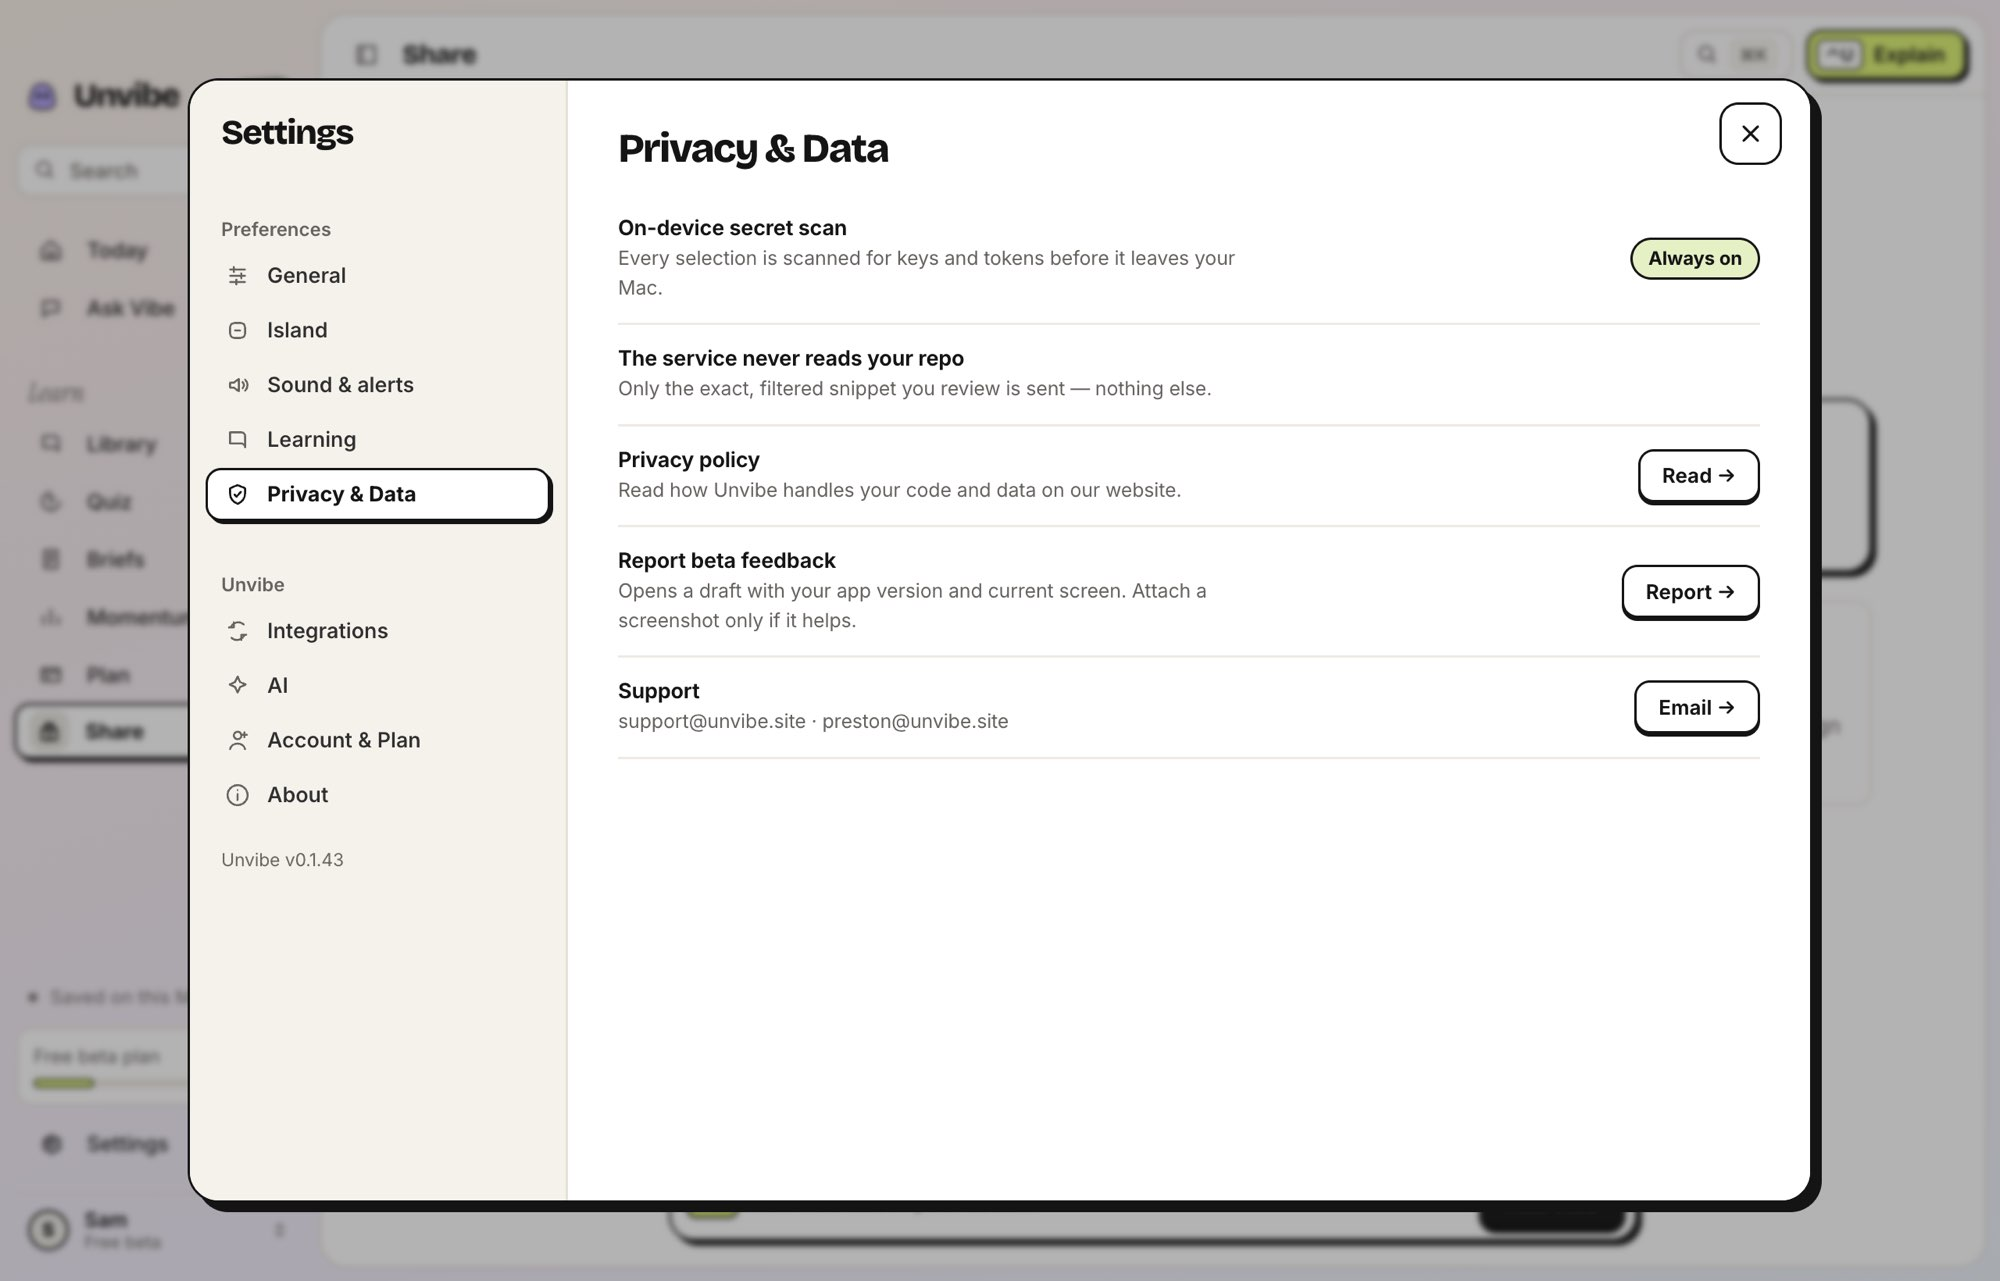
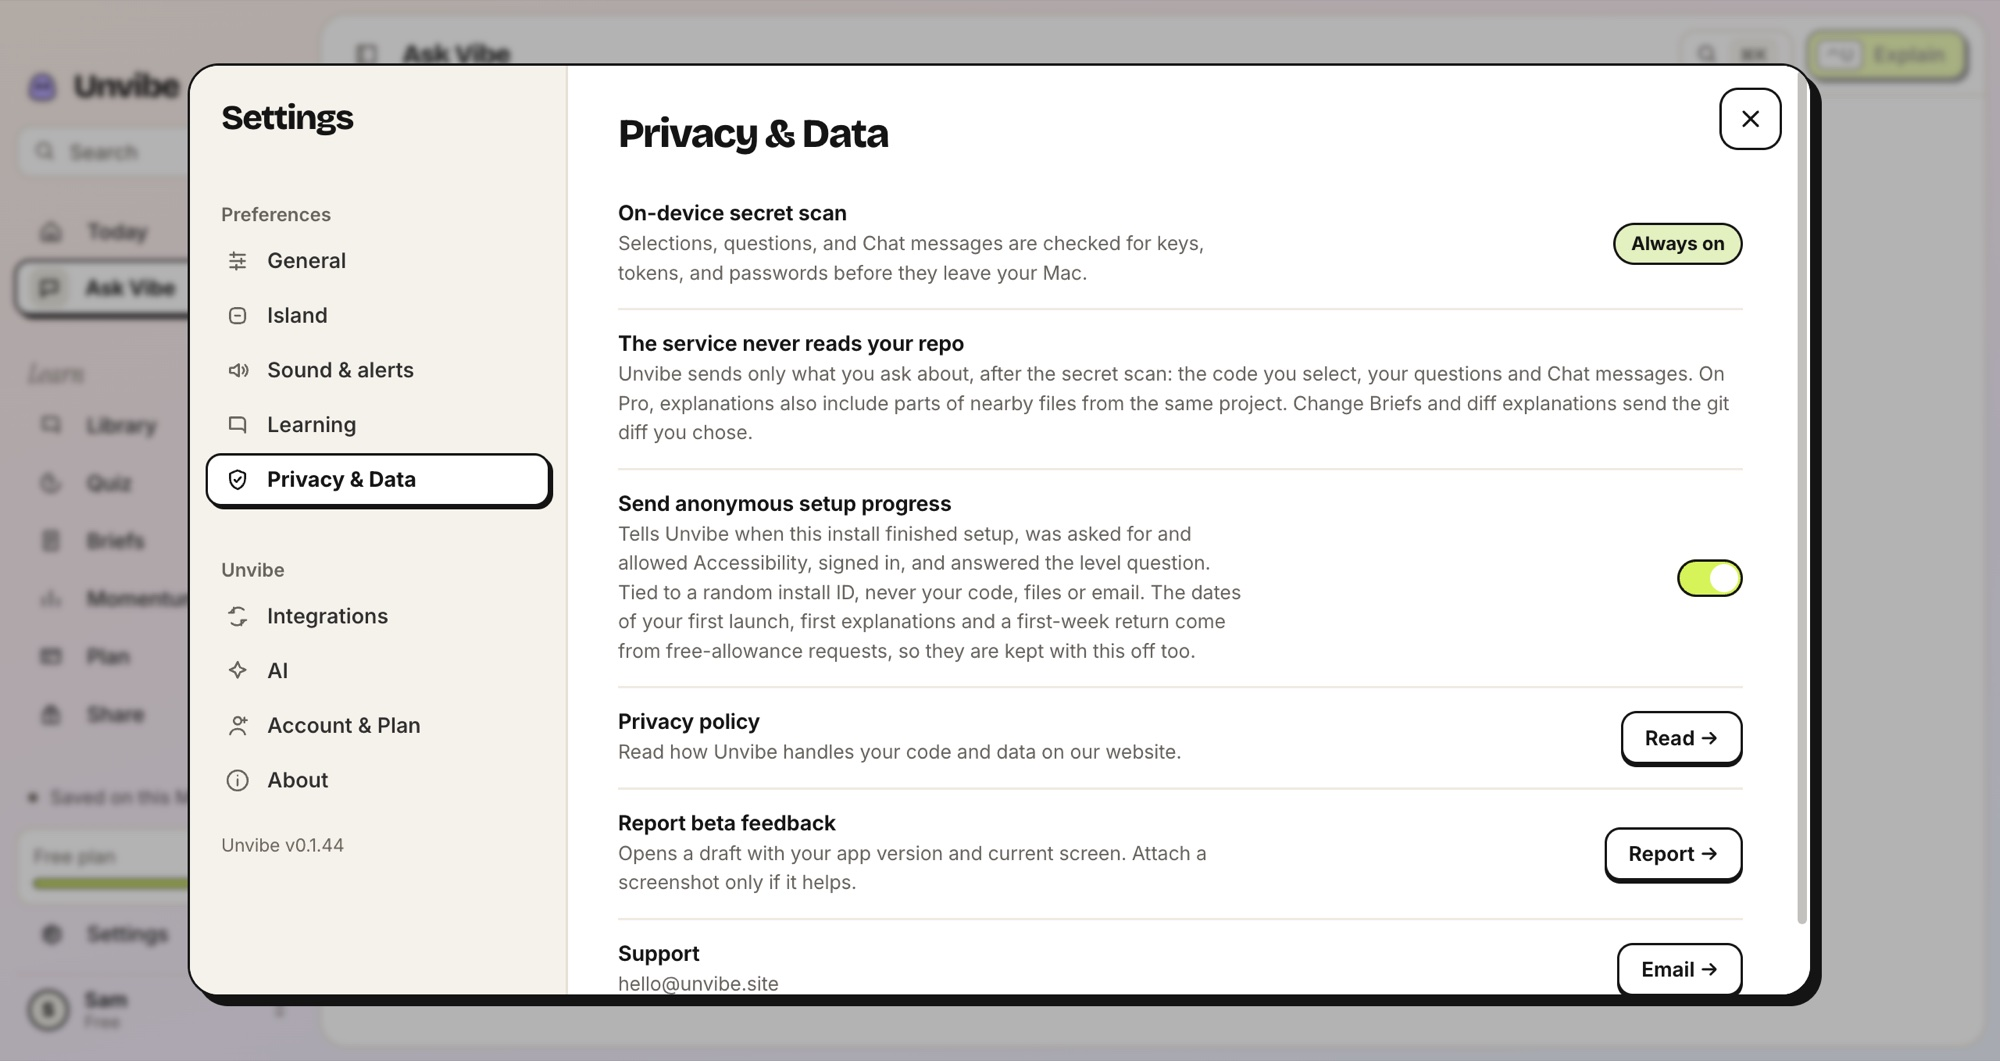
Screenshots: re-shoot the privacy settings from the released 0.1.44, drop the web mock-ups that showed a personal name and inbox, and refuse the retired files by hash

diff --git a/marketing/src/lib/publicContact.test.ts b/marketing/src/lib/publicContact.test.ts
@@ -1,5 +1,6 @@
 import { describe, it } from "node:test";
 import assert from "node:assert/strict";
+import { createHash } from "node:crypto";
 import { readdirSync, readFileSync, statSync } from "node:fs";
 import { join } from "node:path";
 
@@ -7,15 +8,34 @@ import { join } from "node:path";
 const ALERT_RECIPIENT_FILE = "src/lib/notifyWaitlist.ts";
 const TEXT = /\.(?:tsx?|jsx?|mjs|css|html?|txt|md|json|xml|svg|webmanifest)$/;
 
-function files(dir: string): string[] {
+/**
+ * Screenshots that showed the owner's name or inbox (Security S-H2, 2026-10-27). A text scan can't
+ * see inside an image, so these exact files are refused wherever they reappear under public/.
+ */
+const RETIRED_IMAGES = new Set([
[8 lines of base64/hex data omitted]
+]);
+
+function allFiles(dir: string): string[] {
   return readdirSync(join(process.cwd(), dir), { recursive: true })
     .map((entry) => join(dir, String(entry)))
-    .filter((path) => TEXT.test(path) && !path.endsWith(".test.ts") && statSync(join(process.cwd(), path)).isFile());
+    .filter((path) => statSync(join(process.cwd(), path)).isFile());
+}
+
+function files(dir: string): string[] {
+  return allFiles(dir).filter((path) => TEXT.test(path) && !path.endsWith(".test.ts"));
 }
 
 describe("public contact", () => {
   it("names no personal inbox in site source, public files or user email", () => {
-    const offenders = [...files("src"), ...files("public")]
+    const offenders = [...files("src"), ...files("public"), ...files("scripts")]
       .filter((path) => path !== ALERT_RECIPIENT_FILE)
       .filter((path) => /preston@/i.test(readFileSync(join(process.cwd(), path), "utf8")));
     assert.deepEqual(offenders, []);
@@ -24,5 +44,12 @@ describe("public contact", () => {
   it("keeps the alert recipient out of anything a visitor or user receives", () => {
     const alert = readFileSync(join(process.cwd(), ALERT_RECIPIENT_FILE), "utf8");
     assert.doesNotMatch(alert, /reply_to:\s*["'`][^"'`]*preston@/i);
+  });
+
+  it("ships none of the retired screenshots that showed the owner's name or inbox", () => {
+    const offenders = allFiles("public").filter((path) =>
+      RETIRED_IMAGES.has(createHash("sha256").update(readFileSync(join(process.cwd(), path))).digest("hex")),
+    );
+    assert.deepEqual(offenders, []);
   });
 });

diff --git a/web/test/publicContact.test.ts b/web/test/publicContact.test.ts
@@ -1,18 +1,47 @@
 import assert from 'node:assert/strict';
-import { readdirSync, readFileSync, statSync } from 'node:fs';
+import { createHash } from 'node:crypto';
+import { existsSync, readdirSync, readFileSync, statSync } from 'node:fs';
 import { join } from 'node:path';
 import test from 'node:test';
 
-const TEXT = /\.(?:tsx?|jsx?|mjs|css|html?|txt|md|json|svg)$/;
+const TEXT = /\.(?:tsx?|jsx?|mjs|css|html?|txt|md|json|svg|sql)$/;
 
-function files(dir: string): string[] {
+/**
+ * Mock-up screenshots that showed the owner's name and inbox (Security S-H2, 2026-10-27). A text scan
+ * can't see inside an image, so these exact files are refused wherever they reappear under public/.
+ */
+const RETIRED_IMAGES = new Set([
[8 lines of base64/hex data omitted]
+]);
+
+/** Every file under `dir`; none when it doesn't exist (web has no public/ folder today). */
+function allFiles(dir: string): string[] {
+  if (!existsSync(join(process.cwd(), dir))) return [];
   return readdirSync(join(process.cwd(), dir), { recursive: true })
     .map((entry) => join(dir, String(entry)))
-    .filter((path) => TEXT.test(path) && statSync(join(process.cwd(), path)).isFile());
+    .filter((path) => statSync(join(process.cwd(), path)).isFile());
+}
+
+function files(dir: string): string[] {
+  return allFiles(dir).filter((path) => TEXT.test(path));
 }
 
 test('the web app names no personal inbox in pages, API routes, libraries or public files', () => {
-  const offenders = [...files('app'), ...files('src'), ...files('public')]
+  const offenders = [...files('app'), ...files('src'), ...files('public'), ...files('scripts'), ...files('supabase')]
     .filter((path) => /preston@/i.test(readFileSync(join(process.cwd(), path), 'utf8')));
+  assert.deepEqual(offenders, []);
+});
+
+test('the web app ships none of the retired screenshots that showed the owner name or inbox', () => {
+  const offenders = allFiles('public').filter((path) =>
+    RETIRED_IMAGES.has(createHash('sha256').update(readFileSync(join(process.cwd(), path))).digest('hex')),
+  );
   assert.deepEqual(offenders, []);
 });

diff --git a/web/app/globals.css b/web/app/globals.css
@@ -260,38 +260,6 @@ img { max-width: 100%; display: block; }
   border: 1px solid var(--line-strong);
 }
 
-/* ---- screenshots ---- */
-.screenshots {
-  padding: 48px 0;
-}
-.screenshots__grid {
-  display: grid;
-  grid-template-columns: repeat(auto-fit, minmax(280px, 1fr));
-  gap: 20px;
-}
-.screenshots__card {
-  margin: 0;
-  background: var(--bg-subtle);
-  border: 1px solid var(--line);
-  border-radius: 10px;
-  overflow: hidden;
-  transition: box-shadow 0.2s, transform 0.2s;
-}
-.screenshots__card:hover {
-  box-shadow: 0 4px 20px rgba(0,0,0,0.06);
-  transform: translateY(-2px);
-}
-.screenshots__img {
-  width: 100%;
-  height: auto;
-  border-bottom: 1px solid var(--line);
-}
-.screenshots__card figcaption {
-  padding: 10px 14px 12px;
-  font-size: 13px;
-  color: var(--fg-muted);
-}
-
 /* ---- features ---- */
 .features {
   padding: 48px 0;
@@ -507,16 +475,11 @@ img { max-width: 100%; display: block; }
     padding: 16px;
     gap: 8px;
   }
-  .screenshots__grid,
   .features__grid {
     grid-template-columns: 1fr;
   }
   .stat-grid {
     grid-template-columns: repeat(2, 1fr);
-  }
-  .screenshots__card figcaption {
-    font-size: 12px;
-    padding: 8px 12px 10px;
   }
   .plan-header { align-items: stretch; flex-direction: column; }.current-plan { align-items: stretch; flex-direction: column; gap: 10px; }.current-plan .btn { margin-left: 0; }.plan-grid { grid-template-columns: 1fr; }.member-row { grid-template-columns: 1fr 70px; padding: 8px 0; }.invite-form { align-items: stretch; flex-direction: column; }
 }
@@ -562,9 +525,6 @@ img { max-width: 100%; display: block; }
 }
 
 @media (min-width: 1200px) {
-  .screenshots__grid {
-    grid-template-columns: repeat(4, 1fr);
-  }
   .features__grid {
     grid-template-columns: repeat(3, 1fr);
   }

diff --git a/web/app/page.tsx b/web/app/page.tsx
@@ -24,28 +24,6 @@ export default async function HomePage() {
         {userId ? <HomeStats userId={userId} /> : <SignInPrompt />}
       </section>
 
-      <section className="screenshots">
-        <h2 className="section-title">See it in action</h2>
-        <div className="screenshots__grid">
-          <figure className="screenshots__card">
-            <img src="/screenshots/progress-light.webp" alt="Progress dashboard" loading="lazy" className="screenshots__img" />
-            <figcaption>Dashboard — progress at a glance</figcaption>
-          </figure>
-          <figure className="screenshots__card">
-            <img src="/screenshots/study-light.webp" alt="Study mode" loading="lazy" className="screenshots__img" />
-            <figcaption>Study — review concepts and test yourself</figcaption>
-          </figure>
-          <figure className="screenshots__card">
-            <img src="/screenshots/projects-light.webp" alt="Projects view" loading="lazy" className="screenshots__img" />
-            <figcaption>Projects — organisation per repo</figcaption>
-          </figure>
-          <figure className="screenshots__card">
-            <img src="/screenshots/notebook-light.webp" alt="Notebook" loading="lazy" className="screenshots__img" />
-            <figcaption>Notebook — save insights as you learn</figcaption>
-          </figure>
-        </div>
-      </section>
-
       <section className="features">
         <h2 className="section-title">What you get</h2>
         <div className="features__grid">
